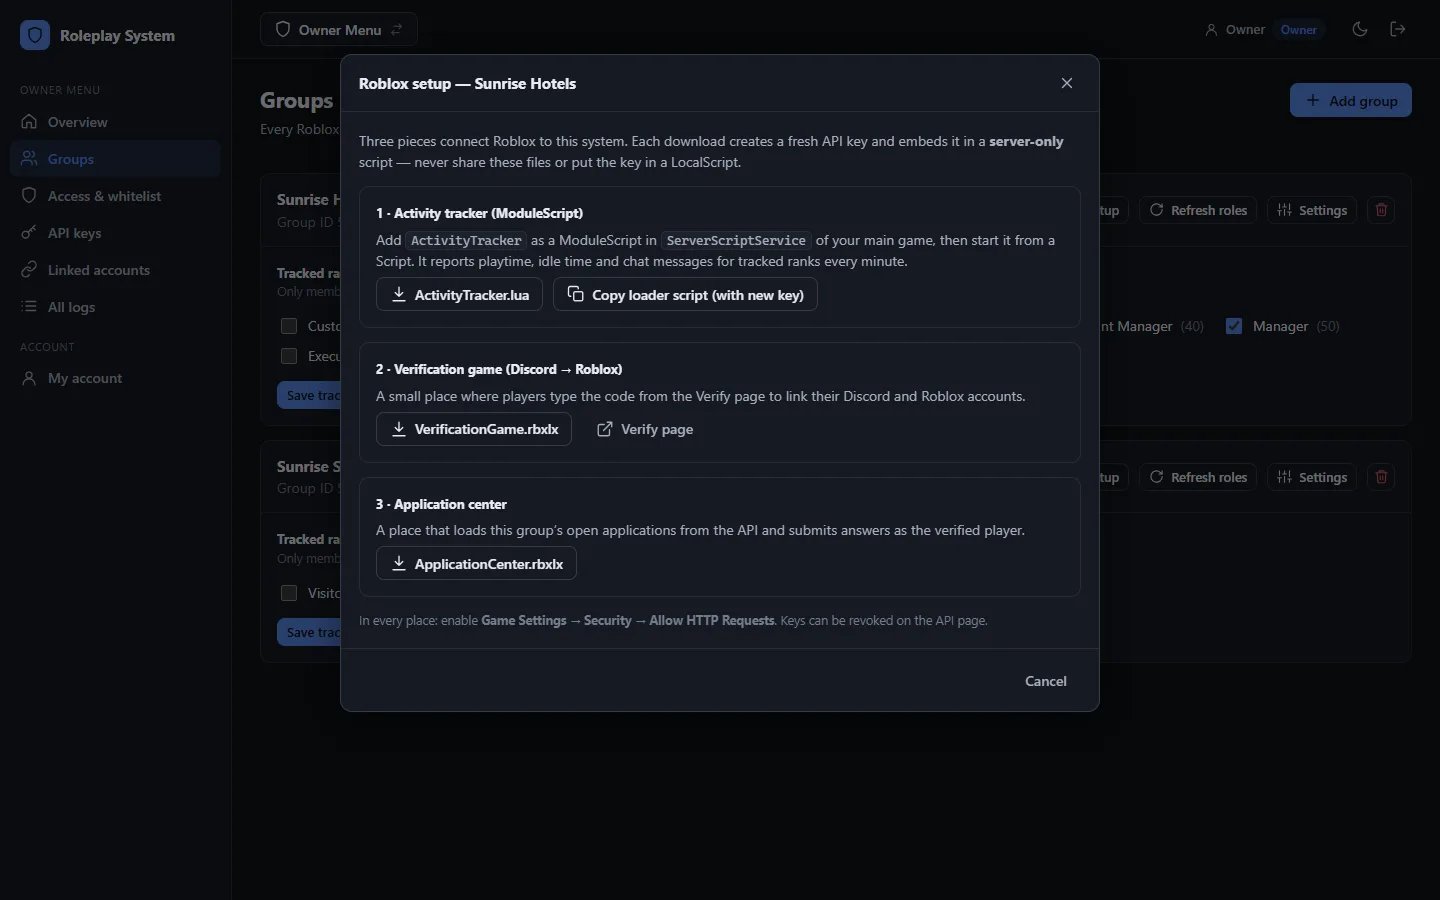
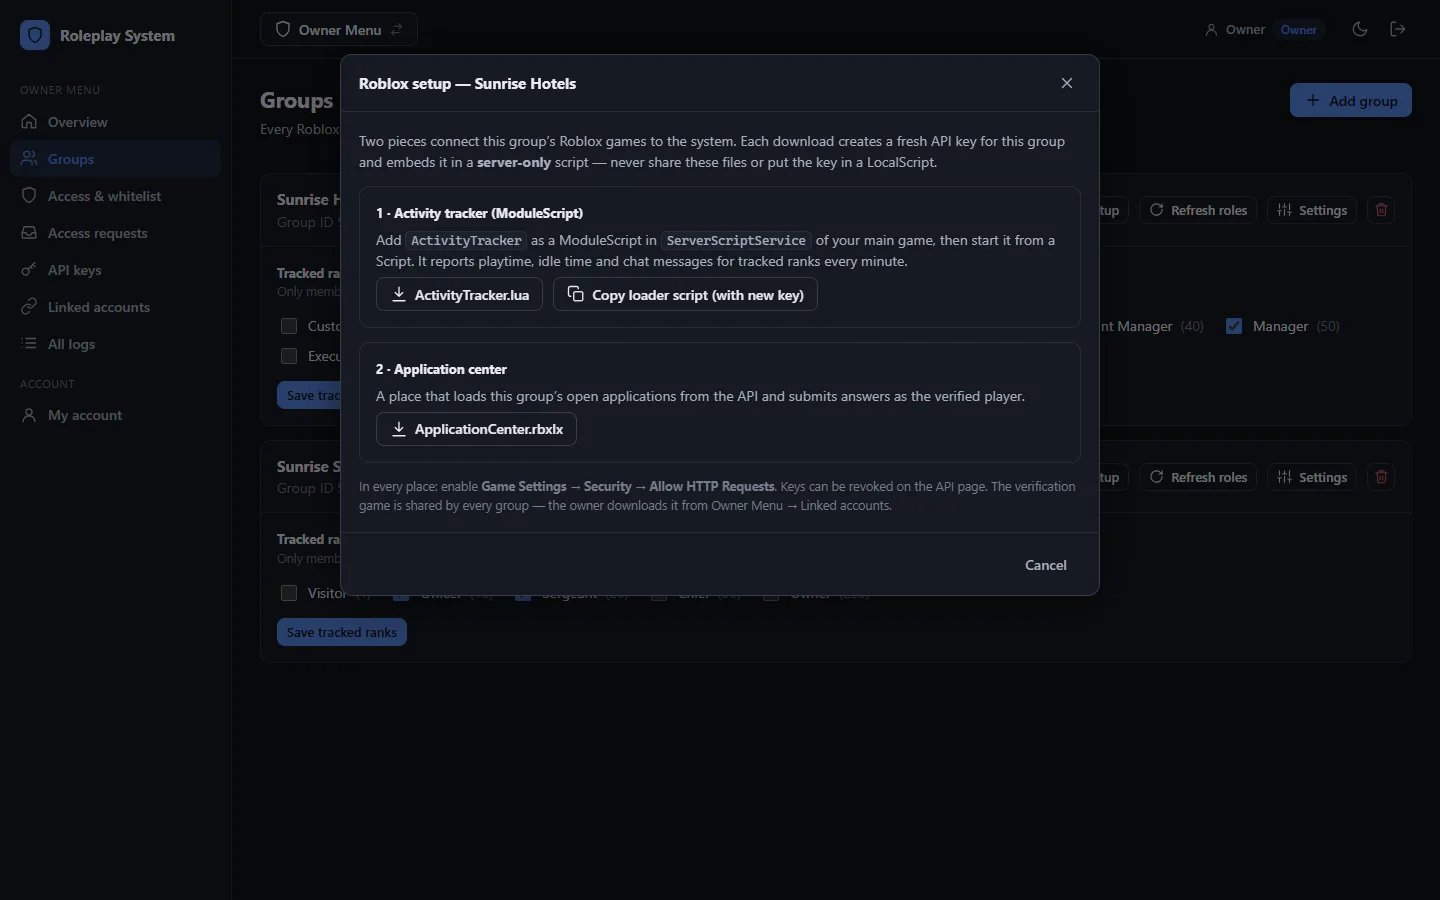
Roleplay System: system-wide verification game

diff --git a/roleplay-system/views-manage.js b/roleplay-system/views-manage.js
@@ -12,7 +12,7 @@ const PERM_LABELS = { manage_activity: 'Manage activity, requirements, time off,
 async function createGameKey(label, gid = S.gid) {
   if (!can('manage_api_keys')) throw new Error('You need the "manage API keys" permission to generate a game key.');
   const g = S.groups.find((x) => x.id === gid);
-  return (await api('/api/keys', { body: { name: `${label} — ${g?.name || gid}`, scopes: ['game', 'verify'], groupId: gid } })).key;
+  return (await api('/api/keys', { body: { name: `${label} — ${g?.name || gid}`, scopes: ['game'], groupId: gid } })).key;
 }
 
 // ---------- applications ----------
@@ -321,25 +321,22 @@ VIEWS.groups = async (el, _a, _b, reload) => {
 
 function robloxSetup(g = group()) {
   const m = modal({ title: `Roblox setup — ${g.name}`, wide: true, body: `
-      <p class="dim">Three pieces connect Roblox to this system. Each download creates a fresh API key and embeds it in a <b>server-only</b> script — never share these files or put the key in a LocalScript.</p>
+      <p class="dim">Two pieces connect this group’s Roblox games to the system. Each download creates a fresh API key for this group and embeds it in a <b>server-only</b> script — never share these files or put the key in a LocalScript.</p>
       <div class="card"><div class="body stack gap-s"><h3>1 · Activity tracker (ModuleScript)</h3>
         <p class="dim">Add <code>ActivityTracker</code> as a ModuleScript in <code>ServerScriptService</code> of your main game, then start it from a Script. It reports playtime, idle time and chat messages for tracked ranks every minute.</p>
         <div class="row wrap"><button class="btn" data-d="module">${icon('download')} ActivityTracker.lua</button><button class="btn" data-d="loader">${icon('copy')} Copy loader script (with new key)</button></div></div></div>
-      <div class="card"><div class="body stack gap-s"><h3>2 · Verification game (Discord → Roblox)</h3>
-        <p class="dim">A small place where players type the code from the Verify page to link their Discord and Roblox accounts.</p>
-        <div class="row wrap"><button class="btn" data-d="verify">${icon('download')} VerificationGame.rbxlx</button><a class="btn ghost" href="verify.html" target="_blank" rel="noopener">${icon('external')} Verify page</a></div></div></div>
-      <div class="card"><div class="body stack gap-s"><h3>3 · Application center</h3>
+      <div class="card"><div class="body stack gap-s"><h3>2 · Application center</h3>
         <p class="dim">A place that loads this group’s open applications from the API and submits answers as the verified player.</p>
         <div class="row wrap"><button class="btn" data-d="appcenter">${icon('download')} ApplicationCenter.rbxlx</button></div></div></div>
-      <p class="hint">In every place: enable <b>Game Settings → Security → Allow HTTP Requests</b>. Keys can be revoked on the API page.</p>` });
+      <p class="hint">In every place: enable <b>Game Settings → Security → Allow HTTP Requests</b>. Keys can be revoked on the API page. The verification game is shared by every group — the owner downloads it from Owner Menu → Linked accounts.</p>` });
   m.el.onclick = (e) => {
     const b = e.target.closest('[data-d]'); if (!b) return;
     run(b, async () => {
       const d = b.dataset.d;
       if (d === 'module') return downloadFile('ActivityTracker.lua', await luaSource('ActivityTracker.lua'), 'text/plain');
-      const key = await createGameKey({ loader: 'Activity tracker', verify: 'Verification game', appcenter: 'Application center' }[d], g.id);
+      const key = await createGameKey({ loader: 'Activity tracker', appcenter: 'Application center' }[d], g.id);
       if (d === 'loader') return copyText(`-- Script in ServerScriptService (next to the ActivityTracker ModuleScript)\nlocal ActivityTracker = require(script.Parent:WaitForChild("ActivityTracker"))\n\nActivityTracker.Start({\n\tApiUrl = "${ROBLOX_API_URL}",\n\tApiKey = "${key}",\n})\n`);
-      downloadFile(`${d === 'verify' ? 'VerificationGame' : 'ApplicationCenter'}-${g.id}.rbxlx`, await buildPlaceFile(d, { apiUrl: ROBLOX_API_URL, apiKey: key, title: g.name }));
+      downloadFile(`ApplicationCenter-${g.id}.rbxlx`, await buildPlaceFile('appcenter', { apiUrl: ROBLOX_API_URL, apiKey: key, title: g.name }));
       toast('Place file generated', 'good');
     });
   };
@@ -349,7 +346,7 @@ function robloxSetup(g = group()) {
 VIEWS.api = async (el, _a, _b, reload) => {
   if (!can('manage_api_keys')) throw new Error('You do not have permission to manage API keys.');
   const { keys } = await api('/api/keys');
-  const SC = { read: 'Read activity, members, requirements, logs, links', ranking: 'Promote / demote / set rank', timeoff: 'Submit time-off requests', game: 'Roblox game: heartbeats, in-game applications', verify: 'Roblox game: confirm link codes' };
+  const SC = { read: 'Read activity, members, requirements, logs, links', ranking: 'Promote / demote / set rank', timeoff: 'Submit time-off requests', game: 'Roblox game: heartbeats, in-game applications', verify: 'Verification game: confirm link codes (system-wide — leave the group empty)' };
   el.innerHTML = `${head('API', 'Keys for bots, websites and your Roblox games.', `<a class="btn" href="docs.html" target="_blank" rel="noopener">${icon('book')} API docs</a><button class="btn primary" id="add">${icon('plus')} New key</button>`)}
     <div class="card"><div class="body row wrap"><span class="dim">Base URL</span><code class="grow">${esc(ROBLOX_API_URL)}/v1</code><button class="btn sm" id="cp">${icon('copy', 'sm')} Copy</button></div>
       <div class="body hint" style="padding-top:0">Works from Roblox games, Discord bots and websites.</div></div>
@@ -374,7 +371,19 @@ VIEWS.api = async (el, _a, _b, reload) => {
 
 // ---------- linked accounts ----------
 VIEWS.links = async (el, _a, _b, reload) => {
-  el.innerHTML = `${head('Linked accounts', 'Discord ↔ Roblox links made through the verification game. Used to ping members in requirement notices and to identify applicants.', `<a class="btn" href="verify.html" target="_blank" rel="noopener">${icon('external')} Verify page</a>`)}
+  const owner = isOwner();
+  const gameUrl = owner ? (await api('/public/verify-game')).url : '';
+  el.innerHTML = `${head('Linked accounts', 'Discord ↔ Roblox links made through the verification game. One verification game serves every group. Links are used to ping members in requirement notices and to identify applicants.', `<a class="btn" href="verify.html" target="_blank" rel="noopener">${icon('external')} Verify page</a>`)}
+    ${owner ? `<div class="card"><div class="head"><h2 class="grow">Verification game</h2>${gameUrl ? '<span class="badge good">Link set</span>' : '<span class="badge warn">No link yet</span>'}</div><div class="body stack">
+      <p class="dim">One small place for the whole system: players get a code on the Verify page (or My account), type it in this game, and are kicked once their accounts are linked.</p>
+      <div class="vg-steps">
+        <div class="stack gap-s"><b>1 · Download and publish</b><span class="hint">Creates a system API key that can only verify. Publish the place on Roblox and turn on <b>Allow HTTP Requests</b>.</span>
+          <div><button class="btn" id="vgDownload">${icon('download')} VerificationGame.rbxlx</button></div></div>
+        <div class="stack gap-s"><b>2 · Paste the game’s link</b><span class="hint">Shown to players as a <b>Join to Verify</b> button on the Verify page and in My account.</span>
+          <div class="row wrap gap-s"><input id="vgUrl" class="grow" style="min-width:0;flex:1 1 240px" value="${esc(gameUrl)}" placeholder="https://www.roblox.com/games/1234567890/Verify" aria-label="Verification game link">
+            <button class="btn primary" id="vgSave">${icon('check')} Save</button>${gameUrl ? `<a class="btn ghost" href="${esc(gameUrl)}" target="_blank" rel="noopener noreferrer">${icon('external')} Open</a>` : ''}</div></div>
+      </div>
+    </div></div>` : ''}
     <div class="card"><div class="head"><div class="search grow">${icon('search', 'sm')}<input id="q" placeholder="Search by Roblox or Discord name / ID" aria-label="Search links"></div></div>
     <div class="tbl-wrap"><table><thead><tr><th>Roblox</th><th>Discord</th><th>Linked</th><th></th></tr></thead><tbody id="rows"></tbody></table></div></div>`;
   const load = async () => {
@@ -386,6 +395,18 @@ VIEWS.links = async (el, _a, _b, reload) => {
   await load();
   let timer;
   $('#q', el).oninput = () => { clearTimeout(timer); timer = setTimeout(() => run(null, load), 300); };
+  if (!owner) return;
+  $('#vgSave', el).onclick = (e) => run(e.currentTarget, async () => {
+    await api('/api/verify-game', { method: 'PUT', body: { url: val(el, '#vgUrl') } });
+    verifyGamePromise = null;
+    toast(val(el, '#vgUrl') ? 'Verification game link saved' : 'Verification game link removed', 'good'); reload();
+  });
+  $('#vgDownload', el).onclick = (e) => run(e.currentTarget, async () => {
+    // System-wide: no group, and only the "verify" scope — it can link accounts and nothing else.
+    const { key } = await api('/api/keys', { body: { name: 'Verification game — system', scopes: ['verify'] } });
+    downloadFile('VerificationGame.rbxlx', await buildPlaceFile('verify', { apiUrl: ROBLOX_API_URL, apiKey: key, title: NAME }));
+    toast('Place file generated — publish it, then paste its link here', 'good');
+  });
 };
 
 // ---------- access (owner) ----------
@@ -433,7 +454,8 @@ VIEWS.account = async (el, _a, _b, reload) => {
     const p = b.dataset.link;
     if (p !== 'roblox') { location.href = (await api('/api/auth/link', { body: { provider: p } })).url; return; }
     const { code } = await api('/api/me/verify-code', { method: 'POST' });
-    modal({ title: 'Link your Roblox account', body: `<p class="dim">Join the verification game on Roblox and enter this code. It expires in 15 minutes.</p><div class="codebox">${esc(code)}</div><p class="hint">This page updates after you close this window.</p>`, actions: [{ label: 'Done', kind: 'primary', onClick: (close) => { close(); reload(); } }] });
+    const join = await joinVerifyButton('btn primary');
+    modal({ title: 'Link your Roblox account', body: `<p class="dim">Join the verification game on Roblox and enter this code. It expires in 15 minutes.</p><div class="codebox">${esc(code)}</div>${join ? `<div>${join}</div>` : ''}<p class="hint">You’ll be kicked from the game once it’s linked. This page updates after you close this window.</p>`, actions: [{ label: 'Done', kind: 'primary', onClick: (close) => { close(); reload(); } }] });
   }));
   $$('[data-unlink]', el).forEach((b) => b.onclick = async () => { if (await confirmBox(`Unlink ${b.dataset.unlink}?`, 'You can link it again at any time.', 'Unlink')) run(b, async () => { await api('/api/auth/unlink', { body: { provider: b.dataset.unlink } }); reload(); }); });
 };

diff --git a/roleplay-system/worker/src/auth.js b/roleplay-system/worker/src/auth.js
@@ -293,6 +293,7 @@ export async function createKey(c) {
   const groupId = str(b.groupId, 20) || null;
   if (groupId && !(await c.env.DB.prepare('SELECT id FROM groups WHERE id=?').bind(groupId).first())) bad('Group not found', 404);
   if (scopes.includes('game') && !groupId) bad('A key with the "game" scope must be tied to one group');
+  if (scopes.includes('verify') && groupId) bad('The "verify" scope is system-wide — create it without a group (the owner downloads the verification game from Owner Menu → Linked accounts)');
   const key = `rpk_${randHex(24)}`;
   await c.env.DB.prepare('INSERT INTO api_keys (name, key_hash, prefix, group_id, scopes, created_by, created_at) VALUES (?,?,?,?,?,?,?)')
     .bind(name, await sha256(key), key.slice(0, 12), groupId, JSON.stringify(scopes), c.actor.name, now()).run();
@@ -341,8 +342,32 @@ export async function publicVerifyCode(c) {
   return json(await issueCode(c.env, idn));
 }
 
+// ---------- the verification game's Roblox link (one for the whole system) ----------
+// Accepts https://www.roblox.com/games/<placeId>[/name], /games/start?placeId=<id> and /share?code=… links.
+const ROBLOX_GAME_URL = /^https:\/\/(www\.)?roblox\.com\/(games\/\d+(\/[^\s?#]*)?|games\/start\?placeId=\d+|share\?code=[A-Za-z0-9]+)([?&#][^\s]*)?$/i;
+
+export async function verifyGameUrl(env) {
+  const row = await env.DB.prepare("SELECT value FROM app_settings WHERE key='verify_game'").first();
+  return parseJSON(row?.value, {}).url || '';
+}
+
+/** GET /public/verify-game — where players go to verify (shown as "Join to Verify"). */
+export async function verifyGameGet(c) { return json({ url: await verifyGameUrl(c.env) }); }
+
+/** PUT /api/verify-game {url} — owner sets the verification game's Roblox link ('' clears it). */
+export async function verifyGameSave(c) {
+  const b = await readBody(c.req);
+  const url = str(b.url, 300);
+  if (url && !ROBLOX_GAME_URL.test(url)) bad('Paste the game’s Roblox link, e.g. https://www.roblox.com/games/1234567890/Verify');
+  await c.env.DB.prepare("INSERT INTO app_settings (key, value) VALUES ('verify_game', ?) ON CONFLICT(key) DO UPDATE SET value=excluded.value").bind(JSON.stringify({ url })).run();
+  await logEvent(c.env, c.ctx, { type: 'link.game_set', actor: c.actor, summary: url ? `${c.actor.name} set the verification game link to ${url}` : `${c.actor.name} removed the verification game link` });
+  return json({ ok: true, url });
+}
+
 /** POST /v1/game/verify {code, userId, username} — called by the Roblox verification game. */
 export async function gameVerify(c) {
+  // One verification game for the whole system: keys tied to a group (including older ones that had "verify") can't link accounts.
+  if (c.key.group_id) bad('Group keys cannot verify accounts — use the system verification game from Owner Menu → Linked accounts', 403);
   const b = await readBody(c.req);
   const code = str(b.code, 12).toUpperCase().replace(/[^A-Z0-9]/g, '');
   const robloxId = str(b.userId, 20);

diff --git a/roleplay-system/verify.html b/roleplay-system/verify.html
@@ -27,8 +27,11 @@
       root.innerHTML = `<div class="card"><div class="body stack" style="text-align:center;align-items:center">
         ${icon('link', 'lg')}<h1>Link Discord to Roblox</h1>
         <p class="dim">Sign in with Discord, get a code, then enter it in the Roblox verification game. Your Discord and Roblox accounts will be linked.</p>
+        <div id="joinTop"></div>
         ${msg ? `<div class="callout bad" role="alert">${icon('alert')}<span>${esc(msg)}</span></div>` : ''}
         <a class="btn primary big" style="max-width:320px" href="${signIn}">${icon('discord')} Sign in with Discord</a></div></div>`;
+      // Players can open the game ahead of time; the code comes after signing in.
+      joinVerifyButton('btn').then((b) => { const slot = $('#joinTop'); if (slot && b) slot.innerHTML = b; });
     }
 
     async function render() {
@@ -46,9 +49,9 @@
       $('#get').onclick = (e) => run(e.currentTarget, async () => {
         const { code } = await api('/public/verify-code', { public: true, method: 'POST' });
         $('#codeArea').innerHTML = `<div class="stack"><div class="codebox" aria-label="Verification code">${esc(code)}</div>
-          <ol class="dim" style="margin:0;padding-left:20px"><li>Join the verification game on Roblox.</li><li>Type this code and press <b>Link account</b>.</li><li>Come back and press Refresh.</li></ol>
+          <ol class="dim" style="margin:0;padding-left:20px"><li>Join the verification game on Roblox.</li><li>Type this code and press <b>Link account</b> — the game kicks you once it’s linked.</li><li>Come back and press Refresh.</li></ol>
           <p class="hint">The code works once and expires in 15 minutes. Never enter a code someone else gave you.</p>
-          <div><button class="btn" id="re">${icon('refresh')} Refresh</button></div></div>`;
+          <div class="row wrap">${await joinVerifyButton('btn primary')}<button class="btn" id="re">${icon('refresh')} Refresh</button></div></div>`;
         $('#re').onclick = render;
       });
     }

diff --git a/roleplay-system/docs.html b/roleplay-system/docs.html
@@ -100,7 +100,7 @@
         ['POST', '/v1/game/applications/{applicationId}/submit', 'game', 'Submit an application as a verified player', {
           body: { userId: 156, username: 'Builderman', answers: { q1a2b3c4d: 'Stay calm' } }, response: { ok: true, message: 'Your application has been submitted.' },
           notes: 'Answers are keyed by question ID. Checkboxes take an array of option texts; number and scale take numbers; date is `YYYY-MM-DD`, time is `HH:MM` (24-hour). Where `other` is on, any text that is not an option is the player’s own answer and is stored as `Other: …`. Answers that break a question’s `validation` rule are rejected with that rule’s message. Returns 409 if the player already has a pending submission, and 403 if they are blacklisted.' }],
-        ['POST', '/v1/game/verify', 'verify or game', 'Confirm a link code typed in the verification game', { body: { code: 'K7M2QX', userId: 156, username: 'Builderman' }, response: { ok: true, discordName: 'builder' }, notes: 'Returns 404 with `{ ok: false, error }` for an invalid or expired code.' }],
+        ['POST', '/v1/game/verify', 'verify', 'Confirm a link code typed in the verification game (one game for the whole system)', { body: { code: 'K7M2QX', userId: 156, username: 'Builderman' }, response: { ok: true, discordName: 'builder' }, notes: 'Returns 404 with `{ ok: false, error }` for an invalid or expired code.' }],
       ]],
       ['Public application endpoints', 'Used by the web application form. No API key.', [
         ['GET', '/public/applications/{applicationId}', 'none', 'The form definition', { response: { open: true, application: { id: '3f9a1c2b7d', group: 'Sunrise Hotels', title: 'Staff application', identity: 'username', questions: [] } } }],

diff --git a/roleplay-system/worker/src/index.js b/roleplay-system/worker/src/index.js
@@ -272,6 +272,7 @@ R('GET', '/api/users', auth.listUsers, { owner: true });
 R('POST', '/api/users', auth.createUser, { owner: true });
 R('PATCH', '/api/users/:id', auth.updateUser, { owner: true });
 R('DELETE', '/api/users/:id', auth.deleteUser, { owner: true });
+R('PUT', '/api/verify-game', auth.verifyGameSave, { owner: true });
 R('GET', '/api/access-form', access.formGet, { owner: true });
 R('PUT', '/api/access-form', access.formSave, { owner: true });
 R('GET', '/api/access-requests', access.list, { owner: true });
@@ -363,6 +364,7 @@ R('DELETE', '/api/links/:id', auth.deleteLink, { perm: G });
 // --- public pages ---
 R('GET', '/public/access-request', access.publicGet);
 R('POST', '/public/access-request', access.publicSubmit);
+R('GET', '/public/verify-game', auth.verifyGameGet);
 R('GET', '/public/link', auth.publicLink);
 R('POST', '/public/verify-code', auth.publicVerifyCode);
 R('GET', '/public/applications/:id', apps.publicGet);
@@ -392,7 +394,8 @@ R('POST', '/v1/game/session-end', act.sessionEnd, { scope: 'game', keyGroup: tru
 R('GET', '/v1/game/blacklist/:rid', more.blacklistCheck, { scope: 'game', keyGroup: true });
 R('GET', '/v1/game/applications', apps.gameList, { scope: 'game', keyGroup: true });
 R('POST', '/v1/game/applications/:id/submit', apps.gameSubmit, { scope: 'game', keyGroup: true });
-R('POST', '/v1/game/verify', auth.gameVerify, { scope: ['verify', 'game'] });
+// Verification is system-wide: only keys with the "verify" scope (the owner's verification game) may link accounts.
+R('POST', '/v1/game/verify', auth.gameVerify, { scope: 'verify' });
 
 // =====================================================================
 async function handle(req, env, ctx) {

diff --git a/roleplay-system/index.html b/roleplay-system/index.html
@@ -202,10 +202,10 @@
       <div class="copy" data-anim="right">
         <span class="kicker">10 · Accounts</span><h2>Discord, Google and Roblox — linked.</h2>
         <p>Members sign in with Discord, get a one-time code and type it in a small verification game. The Roblox player is identified by the server, so nobody can link someone else’s account.</p>
-        <ul class="ticks"><li>Staff sign in with Google or Discord and link the other</li><li>Linked members get pinged in requirement notices</li><li>Tracker module, verification game and app center downloadable per group</li></ul>
+        <ul class="ticks"><li>Staff sign in with Google or Discord and link the other</li><li>Linked members get pinged in requirement notices</li><li>One verification game for every group, with a <b>Join to Verify</b> button and an automatic kick once linked</li><li>Tracker module and app center downloadable per group</li></ul>
       </div>
       <div class="media layered" data-anim="left">
-        <figure class="frame back"><img data-shot="roblox-setup" alt="Roblox setup dialog with downloads for the tracker module, verification game and application center" width="1440" height="900" loading="lazy"></figure>
+        <figure class="frame back"><img data-shot="roblox-setup" alt="Roblox setup dialog with downloads for the tracker module and the application center" width="1440" height="900" loading="lazy"></figure>
         <figure class="frame front"><img data-shot="verify" alt="Verification page: sign in with Discord to get a link code" width="1440" height="900" loading="lazy"></figure>
       </div>
     </section>

diff --git a/roleplay-system/core.js b/roleplay-system/core.js
@@ -156,6 +156,18 @@ const confirmBox = (title, text, label = 'Confirm', kind = 'danger') => new Prom
   const m = modal({ title, body: `<p class="dim">${esc(text)}</p>`, actions: [{ label, kind, onClick: (close) => { done = true; close(); resolve(true); } }] });
   new MutationObserver((_, o) => { if (!m.el.isConnected) { o.disconnect(); if (!done) resolve(false); } }).observe(document.body, { childList: true });
 });
+/** The verification game's Roblox link, set once by the owner ('' when not set). Fetched once per page. */
+let verifyGamePromise = null;
+function verifyGameUrl() {
+  verifyGamePromise ||= api('/public/verify-game').then((d) => (/^https:\/\/(www\.)?roblox\.com\//i.test(d.url || '') ? d.url : '')).catch(() => '');
+  return verifyGamePromise;
+}
+/** "Join to Verify" link button, or '' if the owner hasn't set the game link yet. */
+async function joinVerifyButton(cls = 'btn primary') {
+  const url = await verifyGameUrl();
+  return url ? `<a class="${cls}" href="${esc(url)}" target="_blank" rel="noopener noreferrer">${icon('roblox')} Join to Verify</a>` : '';
+}
+
 async function copyText(text) { try { await navigator.clipboard.writeText(text); toast('Copied', 'good'); } catch { toast('Copy failed — select and copy manually', 'bad'); } }
 // ---------- filling in a form (applications, access requests) ----------
 const shuffled = (list) => { const a = [...list]; for (let i = a.length - 1; i > 0; i--) { const j = Math.floor(Math.random() * (i + 1)); [a[i], a[j]] = [a[j], a[i]]; } return a; };

diff --git a/roleplay-system/styles.css b/roleplay-system/styles.css
@@ -291,3 +291,7 @@ tr.faded td { opacity: .55; }
 .q-err { color: var(--bad); font-size: 13px; margin: 0; display: flex; align-items: center; gap: 6px; }
 .rv { margin-top: 2px; } .rv-row { display: flex; flex-wrap: wrap; gap: 8px; align-items: center; margin-top: 8px; }
 .rv-row select { width: auto; max-width: 100%; } .rv-row input { flex: 1 1 140px; min-width: 0; } .rv-row .rv-msg { flex: 2 1 220px; }
+
+/* Owner Menu → Linked accounts: verification game steps */
+.vg-steps { display: grid; grid-template-columns: repeat(2, minmax(0, 1fr)); gap: 18px; }
+@media (max-width: 860px) { .vg-steps { grid-template-columns: minmax(0, 1fr); } }

diff --git a/roleplay-system/README.md b/roleplay-system/README.md
@@ -95,8 +95,9 @@ Open the dashboard and sign in with the owner's Google or Discord account (the `
 
 1. **Groups → Add group** — group ID + an Open Cloud API key ([create.roblox.com → Open Cloud → API keys](https://create.roblox.com/dashboard/credentials)) with `group:read` and `group:write` for that group. The key's owner must be able to manage members in the group.
 2. Tick the **tracked ranks** and save.
-3. **Groups → Roblox setup** — download the tracker module, verification game and application center.
-4. **Access** — whitelist your staff and choose their permissions.
+3. **Groups → Roblox setup** — download the tracker module and the application center for that group.
+4. **Owner Menu → Linked accounts** — download the verification game once for the whole system, publish it, and paste its Roblox link so players get a **Join to Verify** button.
+5. **Access** — whitelist your staff and choose their permissions.
 
 ### 5. Roblox
 
@@ -124,7 +125,7 @@ ActivityTracker.Start({
 
 **Application center (.rbxlx)** — generated from the Applications page. The place stores no questions: it fetches the group's open applications from the API whenever a player opens it, so editing a form in the dashboard updates the game without republishing.
 
-**Verification game (.rbxlx)** — players sign in with Discord on `verify.html`, get a code, and type it in this game to link Discord ↔ Roblox.
+**Verification game (.rbxlx)** — one place for the whole system, downloaded from Owner Menu → Linked accounts with a key that can only verify. Players sign in with Discord on `verify.html` (or use My account), get a code, press **Join to Verify**, type the code, and are kicked with a confirmation once Discord ↔ Roblox is linked.
 
 Generated files embed an API key. Do not share them or make the places copyable; revoke keys on the API page if one leaks.
 
